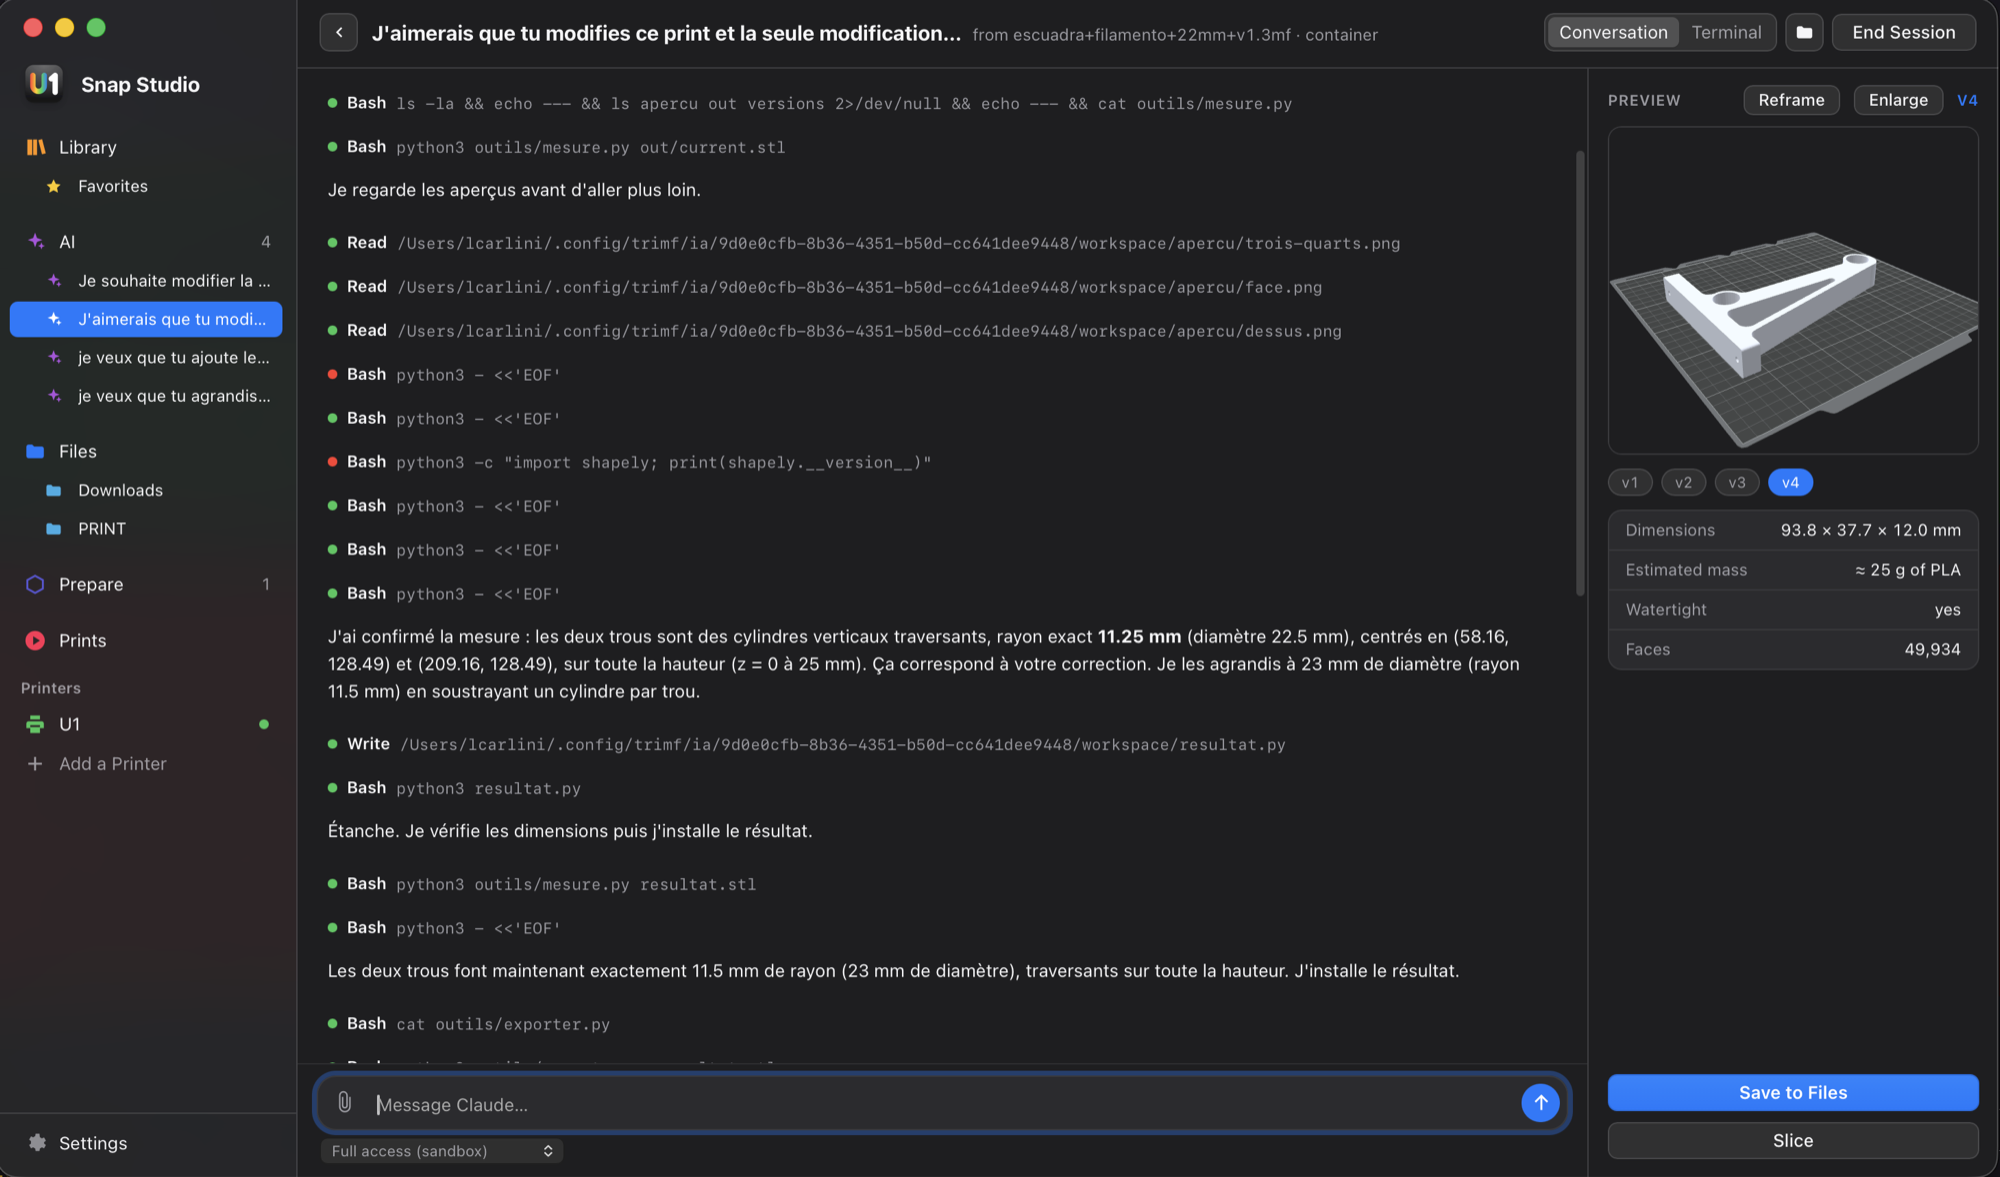
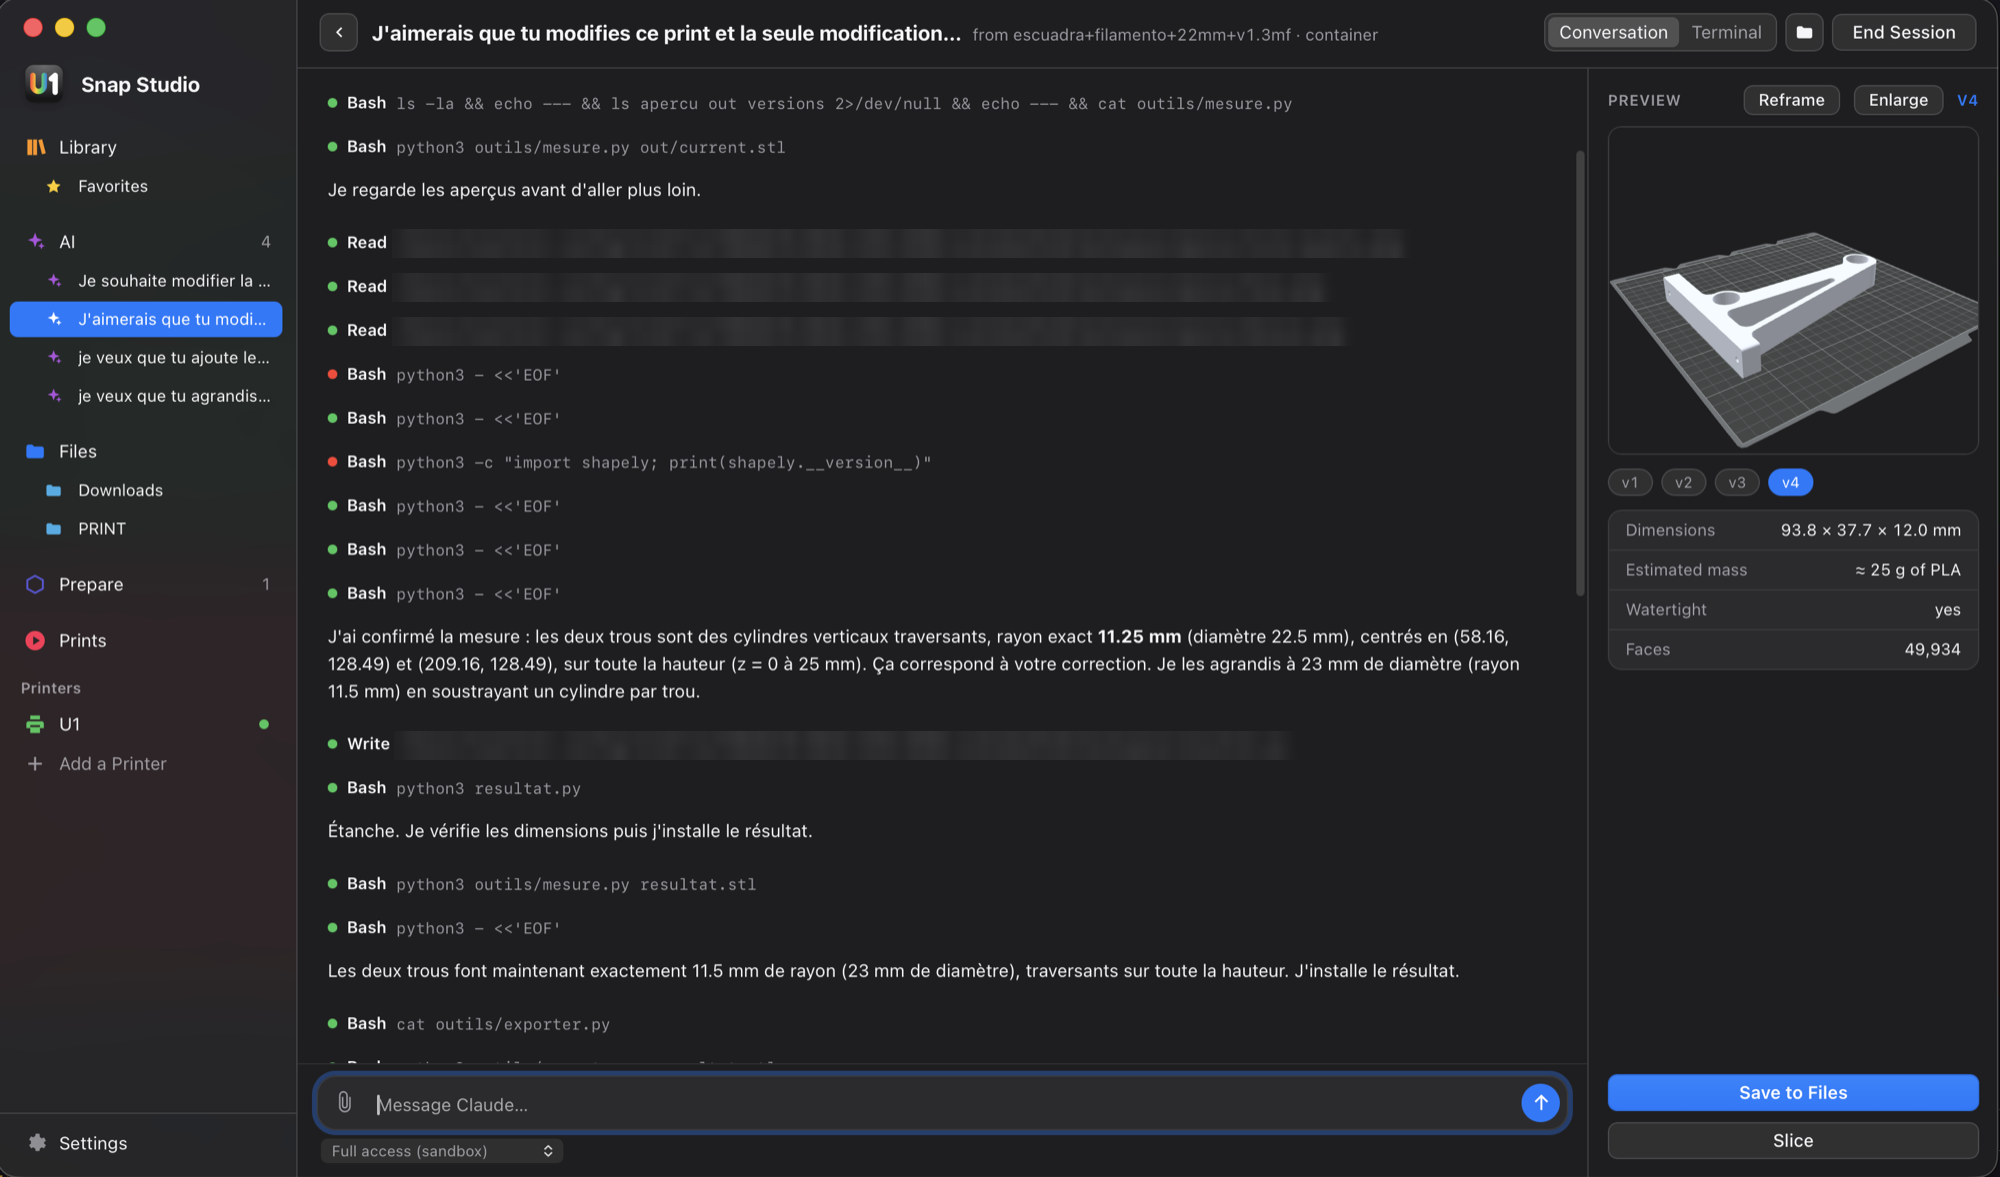
Blur private details in screenshots, add a code of conduct
- Screenshots: user paths in the AI conversation, the printer's local
  address and host name blurred
- CODE_OF_CONDUCT.md (Contributor Covenant 2.0), linked from the
  contributing guides

diff --git a/CODE_OF_CONDUCT.md b/CODE_OF_CONDUCT.md
@@ -1,0 +1,129 @@
+# Contributor Covenant Code of Conduct
+
+## Our Pledge
+
+We as members, contributors, and leaders pledge to make participation in our
+community a harassment-free experience for everyone, regardless of age, body
+size, visible or invisible disability, ethnicity, sex characteristics, gender
+identity and expression, level of experience, education, socio-economic status,
+nationality, personal appearance, race, religion, or sexual identity
+and orientation.
+
+We pledge to act and interact in ways that contribute to an open, welcoming,
+diverse, inclusive, and healthy community.
+
+## Our Standards
+
+Examples of behavior that contributes to a positive environment for our
+community include:
+
+* Demonstrating empathy and kindness toward other people
+* Being respectful of differing opinions, viewpoints, and experiences
+* Giving and gracefully accepting constructive feedback
+* Accepting responsibility and apologizing to those affected by our mistakes,
+  and learning from the experience
+* Focusing on what is best not just for us as individuals, but for the
+  overall community
+
+Examples of unacceptable behavior include:
+
+* The use of sexualized language or imagery, and sexual attention or
+  advances of any kind
+* Trolling, insulting or derogatory comments, and personal or political attacks
+* Public or private harassment
+* Publishing others' private information, such as a physical or email
+  address, without their explicit permission
+* Other conduct which could reasonably be considered inappropriate in a
+  professional setting
+
+## Enforcement Responsibilities
+
+Community leaders are responsible for clarifying and enforcing our standards of
+acceptable behavior and will take appropriate and fair corrective action in
+response to any behavior that they deem inappropriate, threatening, offensive,
+or harmful.
+
+Community leaders have the right and responsibility to remove, edit, or reject
+comments, commits, code, wiki edits, issues, and other contributions that are
+not aligned to this Code of Conduct, and will communicate reasons for moderation
+decisions when appropriate.
+
+## Scope
+
+This Code of Conduct applies within all community spaces, and also applies when
+an individual is officially representing the community in public spaces.
+Examples of representing our community include using an official e-mail address,
+posting via an official social media account, or acting as an appointed
+representative at an online or offline event.
+
+## Enforcement
+
+Instances of abusive, harassing, or otherwise unacceptable behavior may be
+reported to the community leaders responsible for enforcement — the
+maintainer, [@kameka22](https://github.com/kameka22) — through the contact
+address shown on their GitHub profile.
+All complaints will be reviewed and investigated promptly and fairly.
+
+All community leaders are obligated to respect the privacy and security of the
+reporter of any incident.
+
+## Enforcement Guidelines
+
+Community leaders will follow these Community Impact Guidelines in determining
+the consequences for any action they deem in violation of this Code of Conduct:
+
+### 1. Correction
+
+**Community Impact**: Use of inappropriate language or other behavior deemed
+unprofessional or unwelcome in the community.
+
+**Consequence**: A private, written warning from community leaders, providing
+clarity around the nature of the violation and an explanation of why the
+behavior was inappropriate. A public apology may be requested.
+
+### 2. Warning
+
+**Community Impact**: A violation through a single incident or series
+of actions.
+
+**Consequence**: A warning with consequences for continued behavior. No
+interaction with the people involved, including unsolicited interaction with
+those enforcing the Code of Conduct, for a specified period of time. This
+includes avoiding interactions in community spaces as well as external channels
+like social media. Violating these terms may lead to a temporary or
+permanent ban.
+
+### 3. Temporary Ban
+
+**Community Impact**: A serious violation of community standards, including
+sustained inappropriate behavior.
+
+**Consequence**: A temporary ban from any sort of interaction or public
+communication with the community for a specified period of time. No public or
+private interaction with the people involved, including unsolicited interaction
+with those enforcing the Code of Conduct, is allowed during this period.
+Violating these terms may lead to a permanent ban.
+
+### 4. Permanent Ban
+
+**Community Impact**: Demonstrating a pattern of violation of community
+standards, including sustained inappropriate behavior,  harassment of an
+individual, or aggression toward or disparagement of classes of individuals.
+
+**Consequence**: A permanent ban from any sort of public interaction within
+the community.
+
+## Attribution
+
+This Code of Conduct is adapted from the [Contributor Covenant][homepage],
+version 2.0, available at
+https://www.contributor-covenant.org/version/2/0/code_of_conduct.html.
+
+Community Impact Guidelines were inspired by [Mozilla's code of conduct
+enforcement ladder](https://github.com/mozilla/diversity).
+
+[homepage]: https://www.contributor-covenant.org
+
+For answers to common questions about this code of conduct, see the FAQ at
+https://www.contributor-covenant.org/faq. Translations are available at
+https://www.contributor-covenant.org/translations.

diff --git a/CONTRIBUTING.fr.md b/CONTRIBUTING.fr.md
@@ -49,6 +49,12 @@ et les idées à discuter, il y a les [Discussions](https://github.com/kameka22/
 L'anglais est la référence, le français une traduction. Ajouter une langue
 est décrit dans [docs/DEVELOPMENT.md](docs/DEVELOPMENT.md#languages) (en anglais).
 
+## Code de conduite
+
+Toute participation — issues, discussions, pull requests — suit le
+[code de conduite](CODE_OF_CONDUCT.md) (en anglais) : respect, bienveillance,
+critiques constructives.
+
 ## Licence
 
 Snap Studio est un logiciel libre sous [GNU GPL v3](LICENSE) ou ultérieure.

diff --git a/CONTRIBUTING.md b/CONTRIBUTING.md
@@ -49,6 +49,12 @@ ideas to talk over, use the [Discussions](https://github.com/kameka22/snap-studi
 English is the reference, French a translation. Adding a language is
 described in [docs/DEVELOPMENT.md](docs/DEVELOPMENT.md#languages).
 
+## Code of conduct
+
+Everyone taking part — issues, discussions, pull requests — follows the
+[code of conduct](CODE_OF_CONDUCT.md): be respectful, constructive and
+welcoming.
+
 ## License
 
 Snap Studio is free software under the [GNU GPL v3](LICENSE) or later. By
